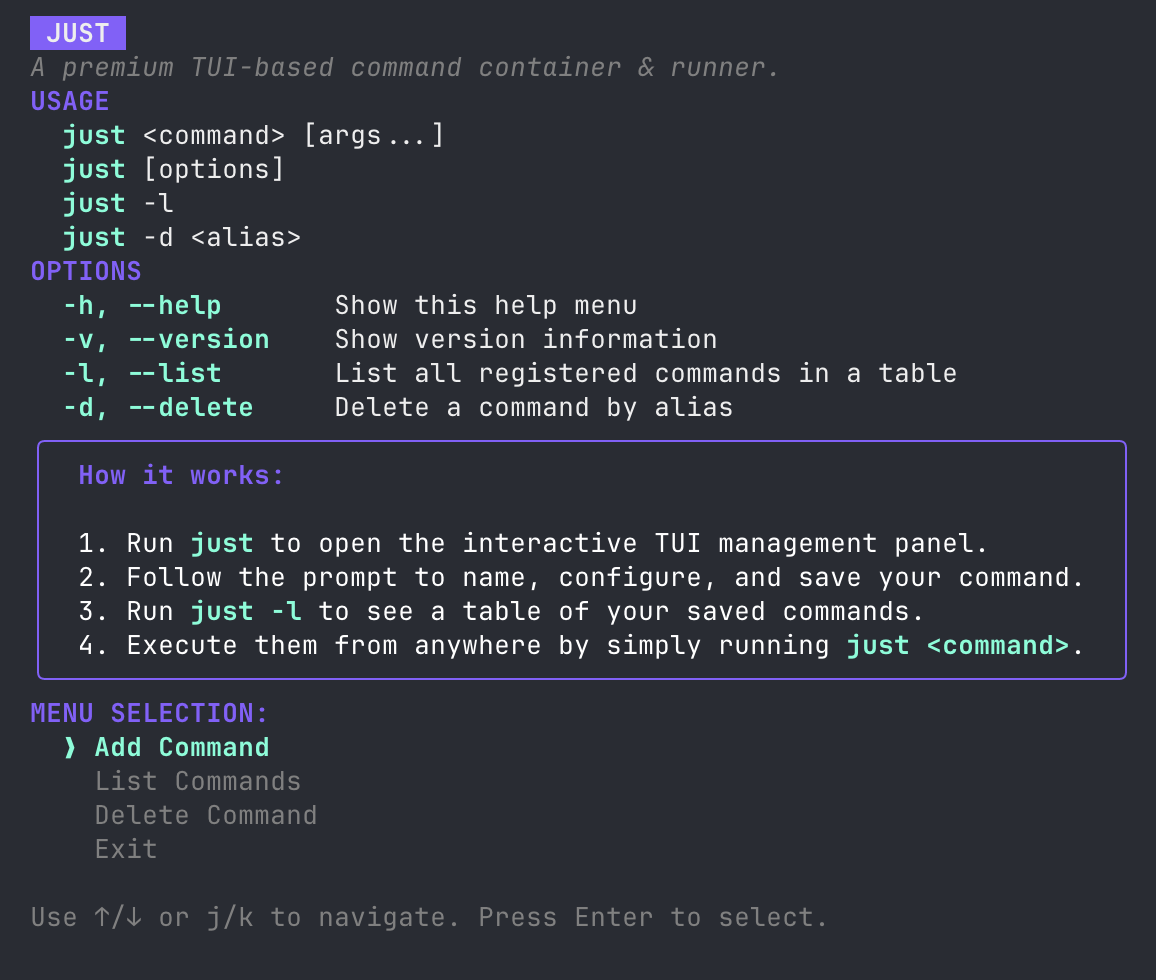
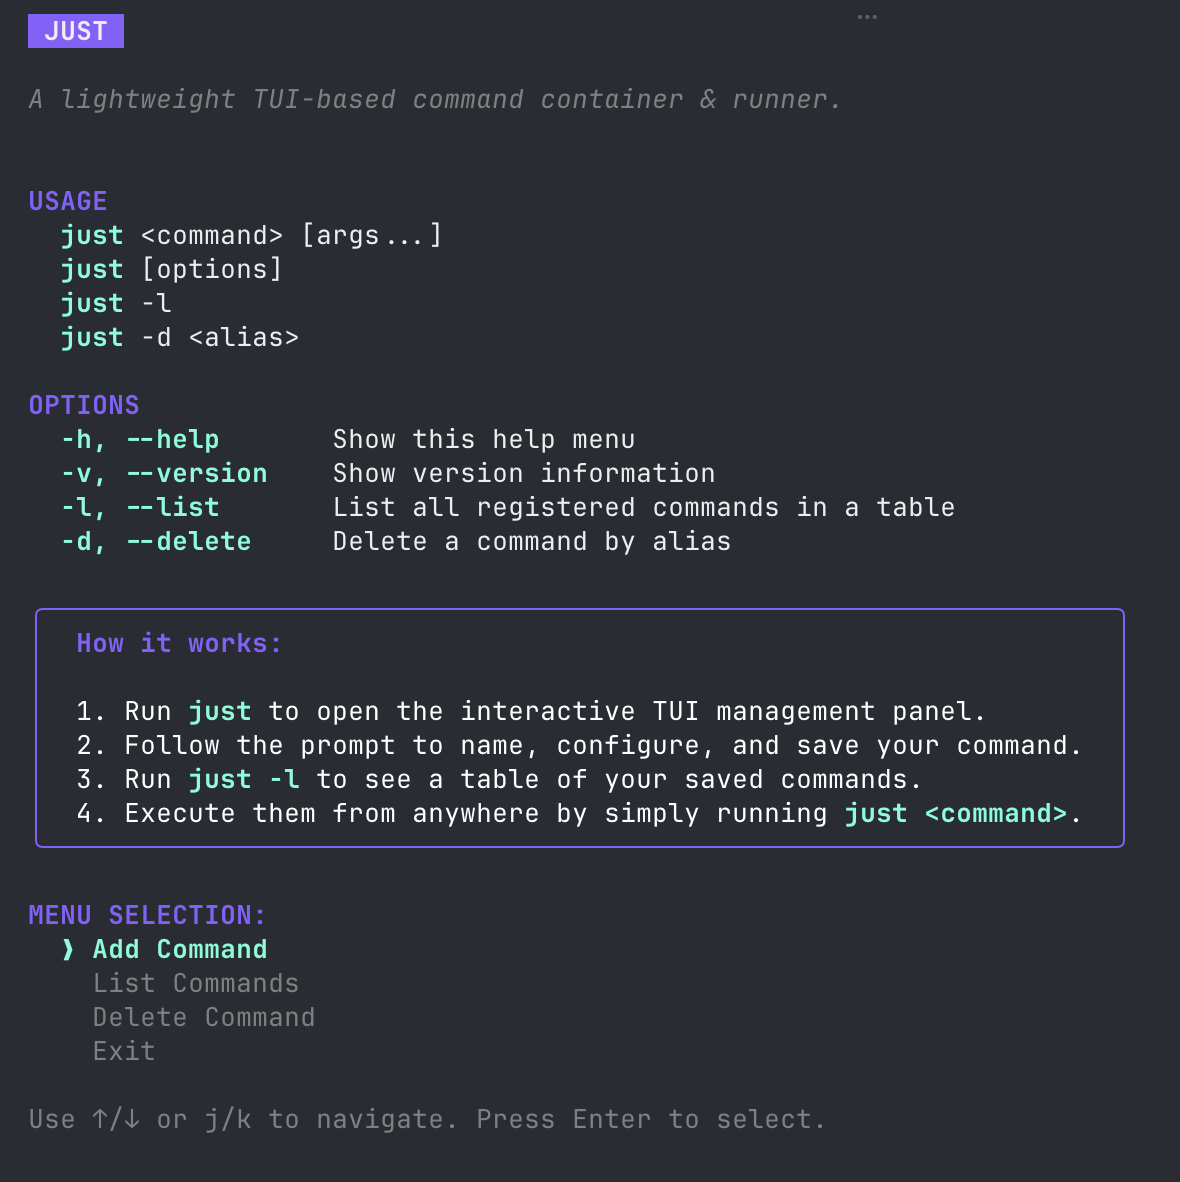
style: update UI component margins and refine project description in documentation

Changed region(s): [[0.0311, 0.0, 0.9343, 0.9796], [0.2803, 0.3061, 0.8408, 0.4898], [0.9343, 0.6735, 0.9654, 0.7041]]

diff --git a/main.go b/main.go
@@ -84,17 +84,17 @@ var (
 			Foreground(white).
 			Background(purple).
 			Padding(0, 1).
-			MarginBottom(0)
+			MarginBottom(1)
 
 	subtitleStyle = lipgloss.NewStyle().
 			Foreground(gray).
 			Italic(true).
-			MarginBottom(0)
+			MarginBottom(1)
 
 	sectionHeaderStyle = lipgloss.NewStyle().
 				Bold(true).
 				Foreground(purple).
-				MarginTop(0).
+				MarginTop(1).
 				MarginBottom(0)
 
 	cmdKeyStyle = lipgloss.NewStyle().
@@ -113,7 +113,7 @@ var (
 			Border(lipgloss.RoundedBorder()).
 			BorderForeground(purple).
 			Padding(0, 2).
-			MarginTop(0).
+			MarginTop(1).
 			MarginBottom(0)
 
 	footerStyle = lipgloss.NewStyle().
@@ -731,7 +731,7 @@ func getHelpContent(w int) string {
 
 	// Banner/Header
 	title := titleStyle.Render("JUST")
-	subtitle := subtitleStyle.Copy().Width(availWidth).Render("A premium TUI-based command container & runner.")
+	subtitle := subtitleStyle.Copy().Width(availWidth).Render("A lightweight TUI-based command container & runner.")
 
 	// Usage section
 	usageHeader := sectionHeaderStyle.Render("USAGE")

diff --git a/README.md b/README.md
@@ -1,6 +1,6 @@
 # just
 
-`just` is a premium, lightweight TUI-based command container and runner written in Go. It allows you to organize, store, and execute your daily command-line snippets and scripts from anywhere with clean aliases, without cluttering your system or configuration files.
+`just` is a lightweight TUI-based command container and runner written in Go. It allows you to organize, store, and execute your daily command-line snippets and scripts from anywhere with clean aliases, without cluttering your system or configuration files.
 
 Built on top of Charm's **Bubble Tea** and **Lipgloss**, `just` offers a modern, visual CLI interface that adapts dynamically to your terminal size.
 